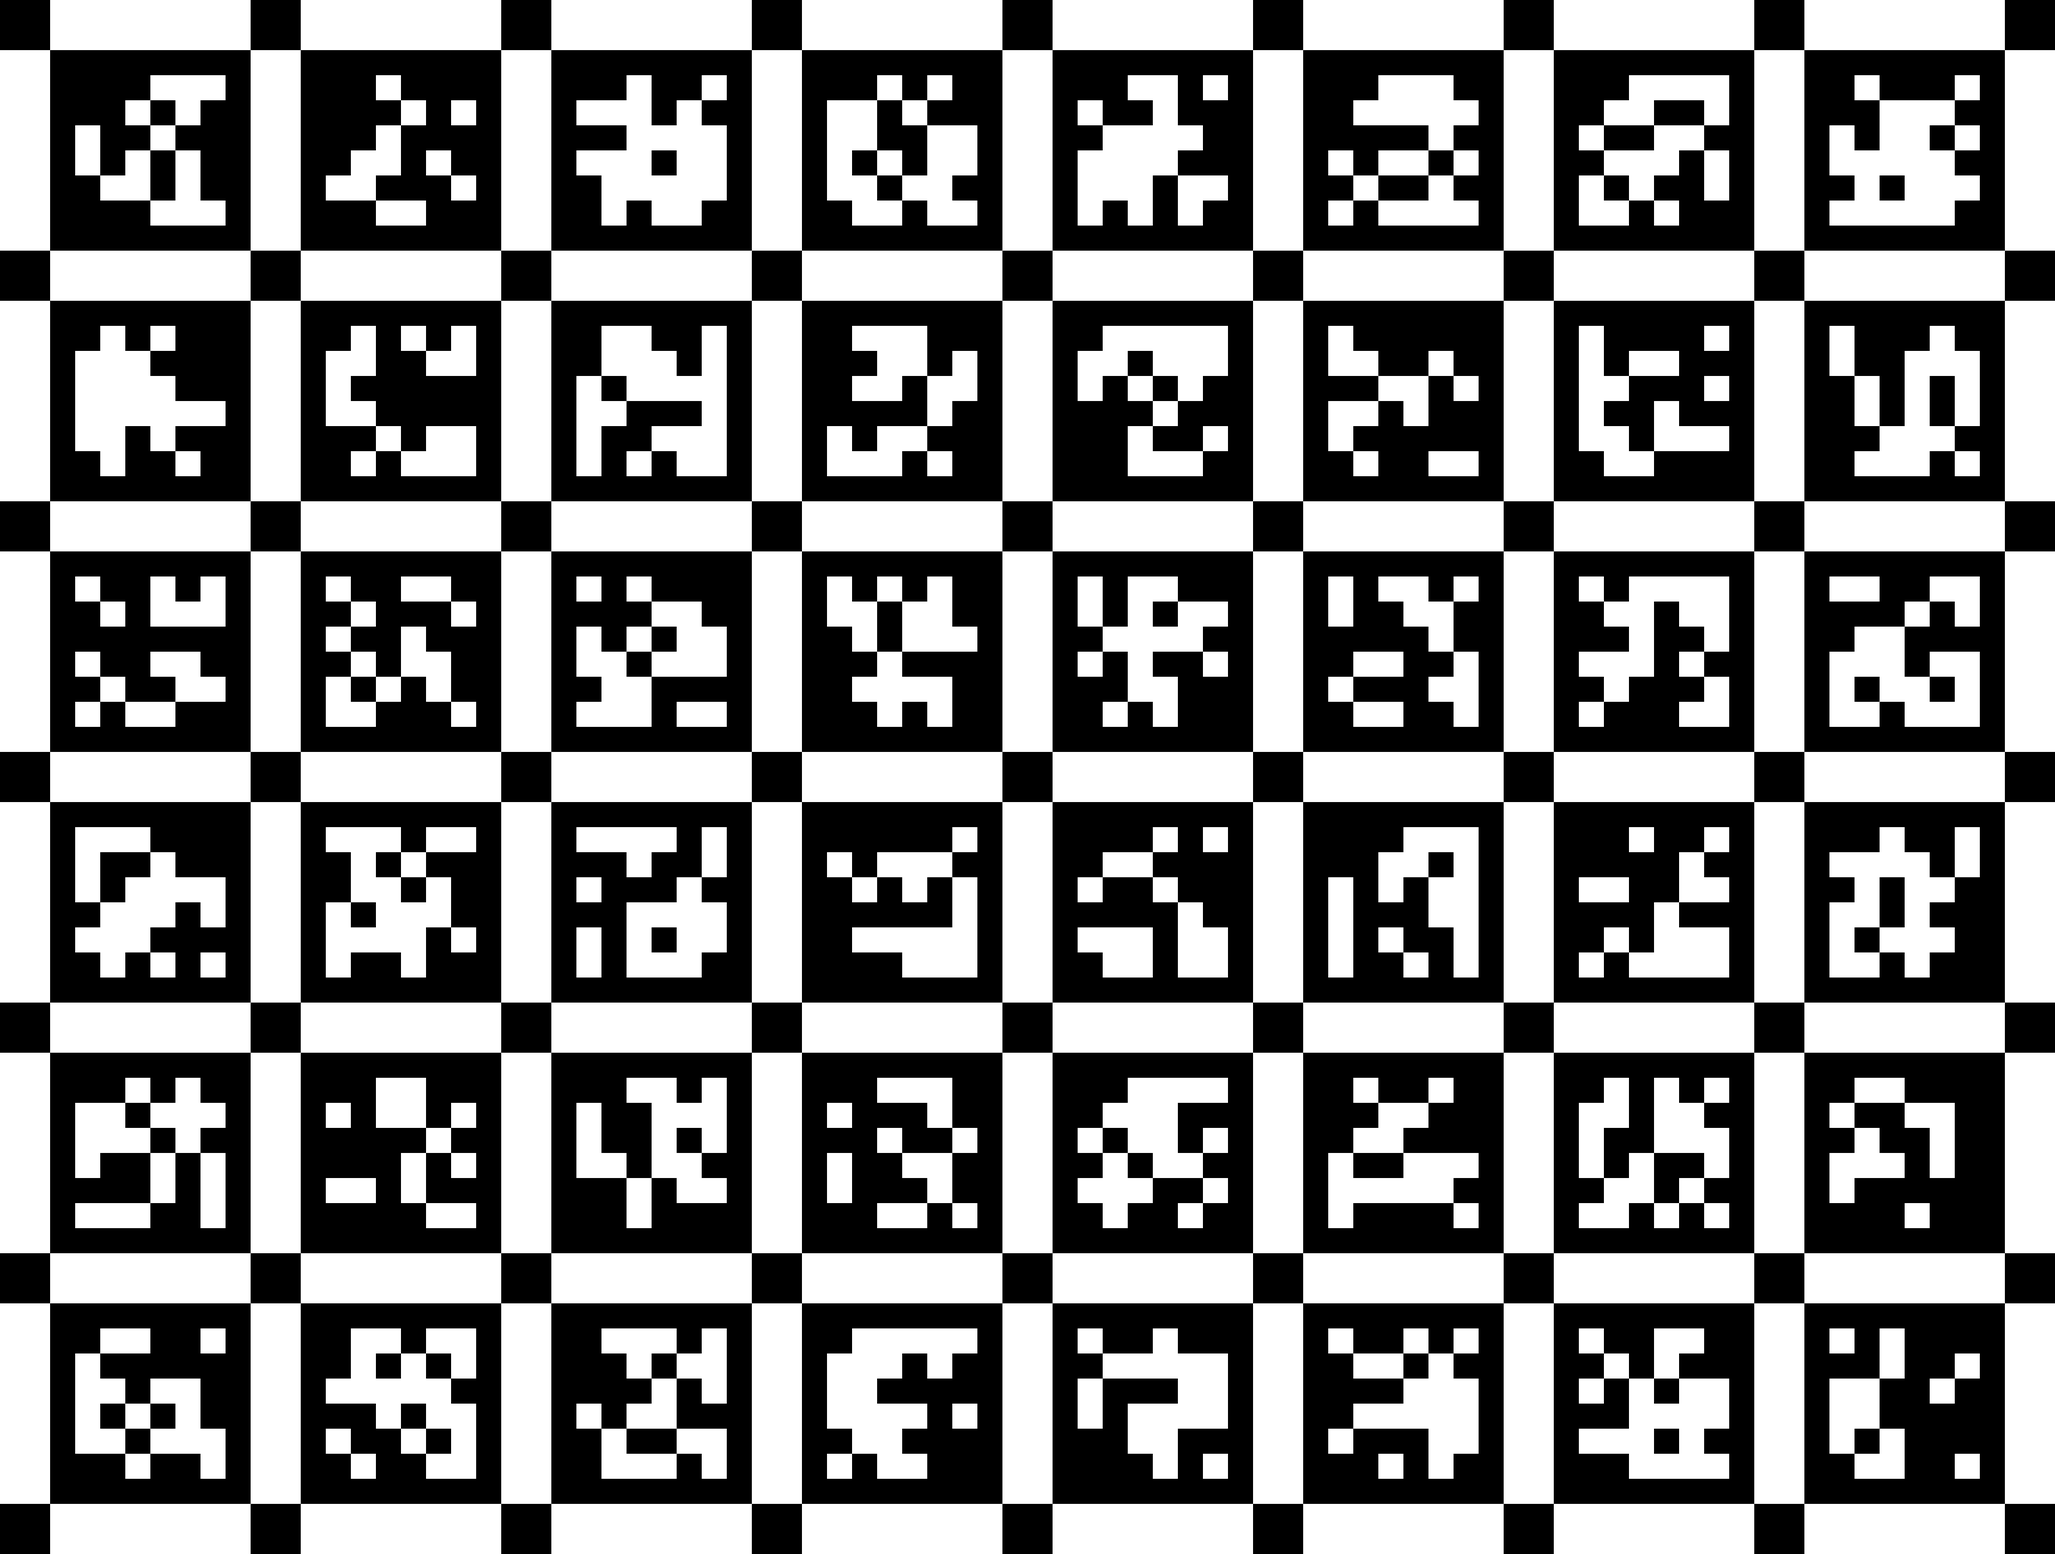
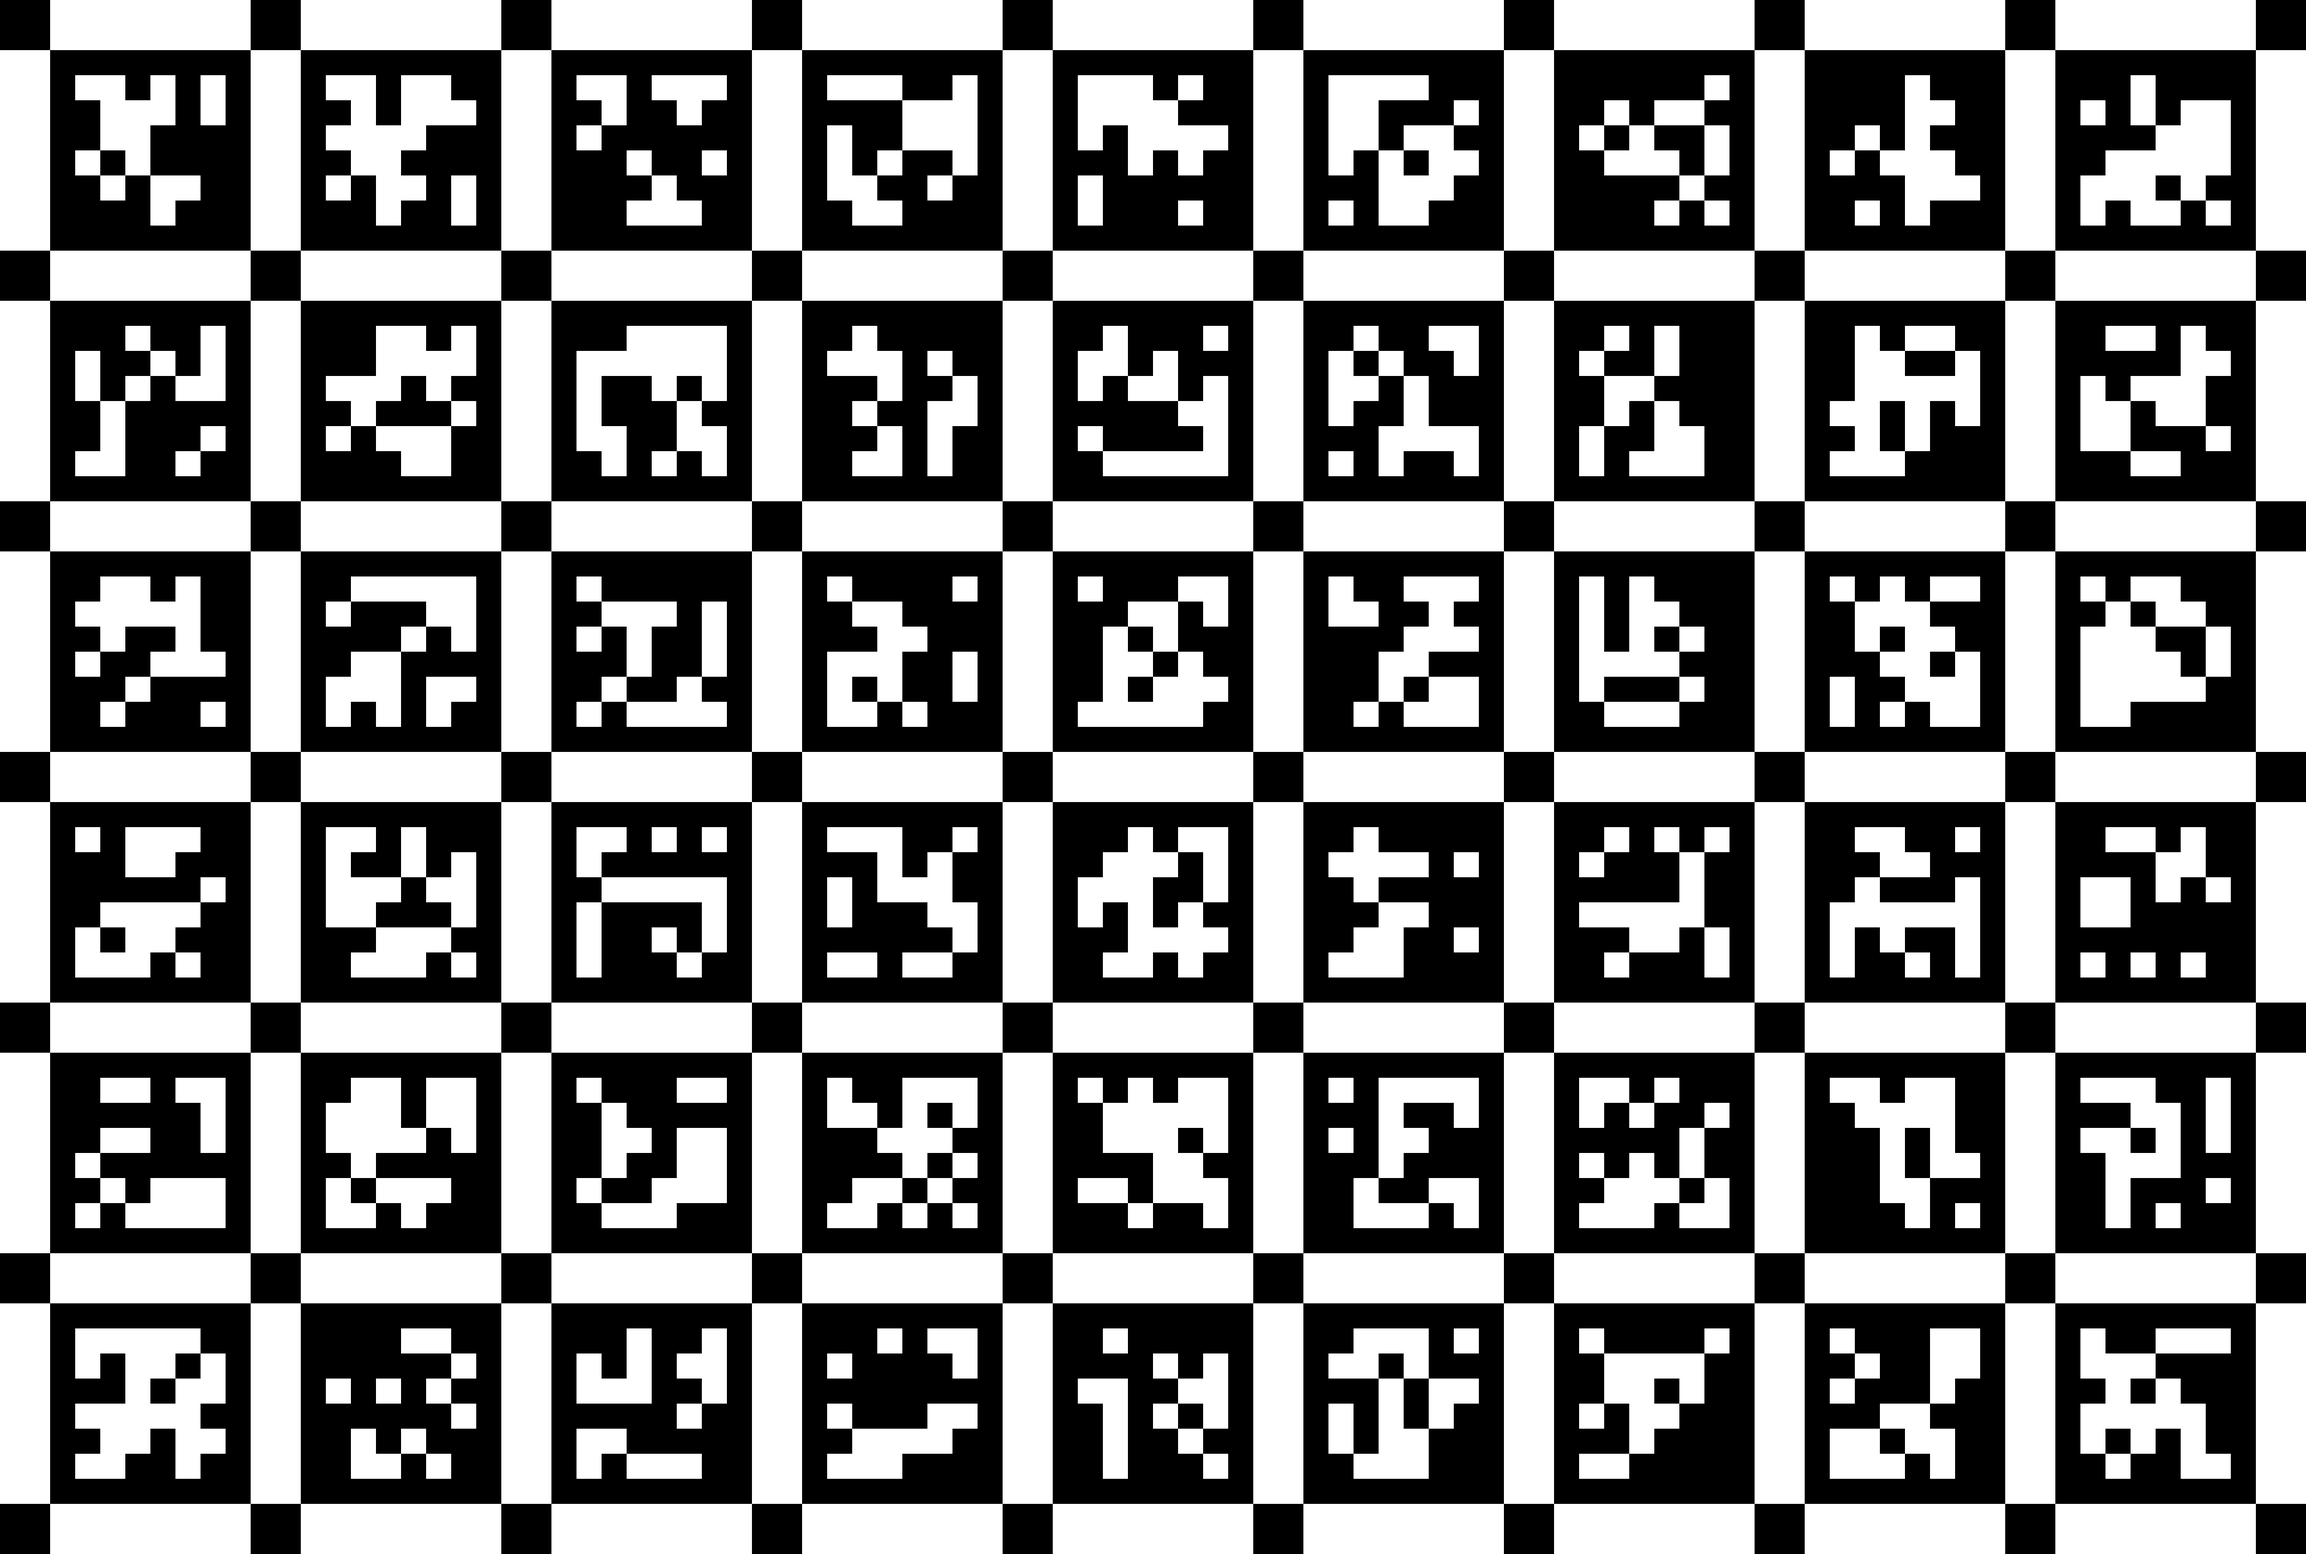
update

diff --git a/example/gen.py b/example/gen.py
@@ -11,9 +11,9 @@ import imageio
 
 if __name__ == '__main__':
     # family = "tag36h11"
-    family = "tag36h10"
+    family = "tag36h11"
     # family = "tag25h9"
-    shape = (6,8)
+    shape = (6,9)
     filename = "apriltag_target.png"
     size = 50
 
